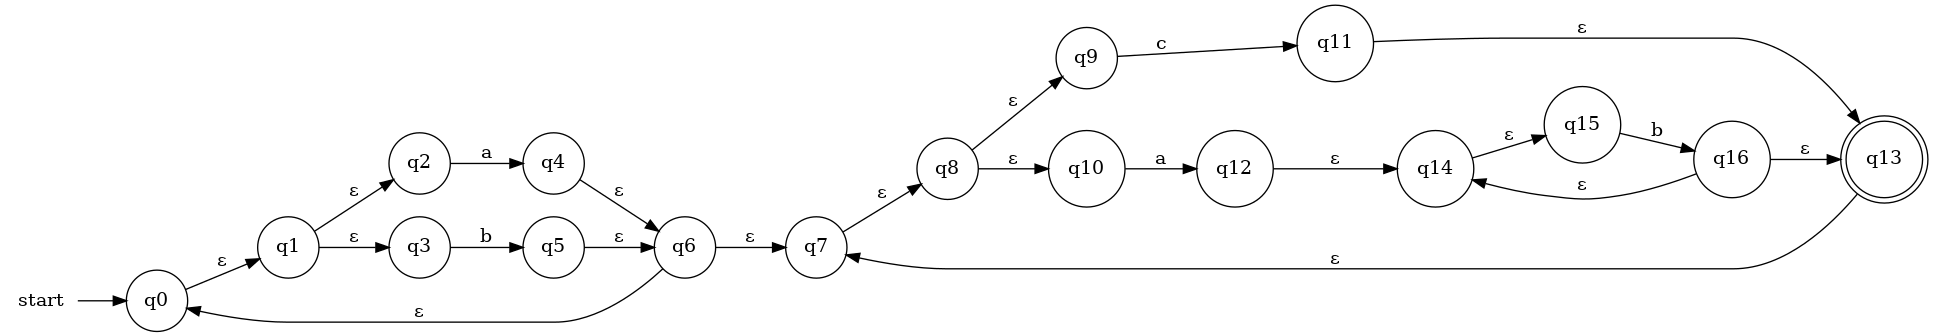
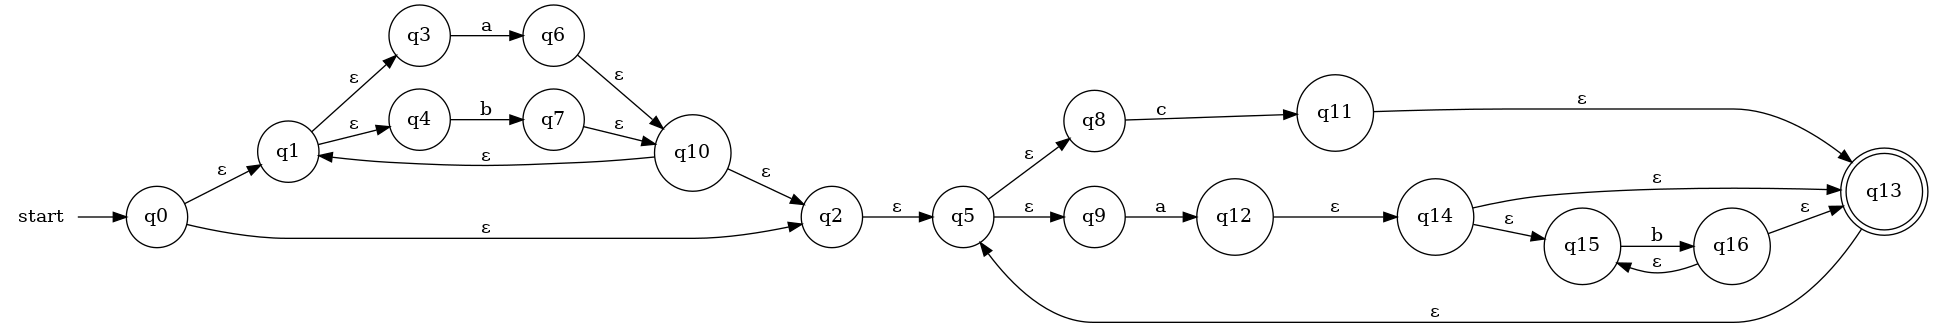
NFA Generator: Corrected Kleene Star

diff --git a/Lab 1/prog.cpp b/Lab 1/prog.cpp
@@ -42,7 +42,7 @@ char reset[] = "\033[0m";
 class Node
 {
 public:
-    int type; // 0 - start state, 1 - accept state, -1 - normal states
+    int type; // 0 - start state, 1 - accept state, 2 - state that is both start and accept, -1 - normal states
     int state;
     unordered_map<char, vector<Node *>> transitions;
 
@@ -53,7 +53,7 @@ public:
 
     void setType(int typ)
     {
-        if (typ < -1 || typ > 1)
+        if (typ < -1 || typ > 2)
         {
             cout << "Invalid Node Type\n";
             return;
@@ -348,15 +348,18 @@ NFA *perform(NFA *a, char op, NFA *b = NULL)
     {
     case '*':
     {
-        Node *new_state = new Node(0);
+        Node *new_state = new Node(2);
         a->start->setType(-1);
+
         new_state->addTransition('\0', a->start);
-        a->start = new_state;
 
         for (auto node : a->accept)
         {
             node->addTransition('\0', a->start);
         }
+        a->accept.push_back(new_state);
+
+        a->start = new_state;
         return a;
     }
     break;
@@ -450,11 +453,11 @@ void visualizeNFA(NFA *root)
                     vis[node] = 1;
                 }
 
-                if (curr->type == 1)
+                if (curr->type == 1 || curr->type == 2)
                 {
                     dotFile << "\tq" << curr->state << " [shape=doublecircle];\n";
                 }
-                if (node->type == 1)
+                if (node->type == 1 || node->type == 2)
                 {
                     dotFile << "\tq" << node->state << " [shape=doublecircle];\n";
                 }
